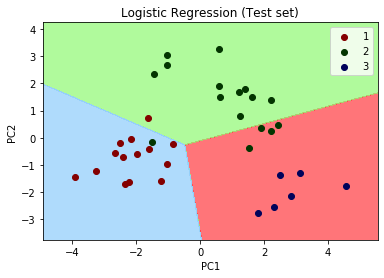
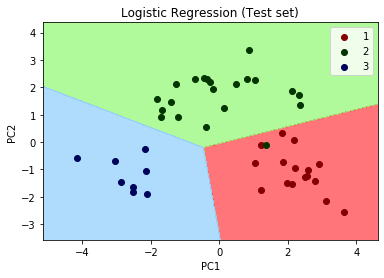
Update : Udemy : PCA tweaked variables
Note : Original produced very strange confusion matrix (CM), fixed and some variable tweaked

diff --git a/Udemy/Machine Leartning A-Z/Principal Component Analysis/my_pca.py b/Udemy/Machine Leartning A-Z/Principal Component Analysis/my_pca.py
@@ -1,10 +1,3 @@
-# -*- coding: utf-8 -*-
-"""
-Created on Wed Jan  1 17:43:21 2020
-
-@author: FartherSkies
-"""
-
 # PCA
 
 # Importing the libraries
@@ -19,7 +12,7 @@ y = dataset.iloc[:, -1].values
 
 # Splitting the dataset into the Training set and Test set
 from sklearn.model_selection import train_test_split
-X_train, X_test, y_train, y_test = train_test_split(X, y, test_size = 0.2, random_state = 0)
+X_train, X_test, y_train, y_test = train_test_split(X, y, test_size = 0.25, random_state = 0)
 
 # Feature Scaling
 from sklearn.preprocessing import StandardScaler
@@ -27,21 +20,18 @@ sc = StandardScaler()
 X_train = sc.fit_transform(X_train)
 X_test = sc.transform(X_test)
 
-# PCA application
+# Applying PCA
 from sklearn.decomposition import PCA
-pca = PCA(n_components=2)
+pca = PCA(n_components = 2)
 X_train = pca.fit_transform(X_train)
-X_test = pca.fit_transform(X_test)
+X_test = pca.transform(X_test)
+explained_variance = pca.explained_variance_ratio_
 
-#cumulative explained variance
-explained_var = pca.explained_variance_ratio_
-print (explained_var)
-
-# from logistic regression file
+print (explained_variance)
 
 # Fitting Logistic Regression to the Training set
 from sklearn.linear_model import LogisticRegression
-classifier = LogisticRegression(random_state = 0)
+classifier = LogisticRegression(random_state = 42)
 classifier.fit(X_train, y_train)
 
 # Predicting the Test set results
